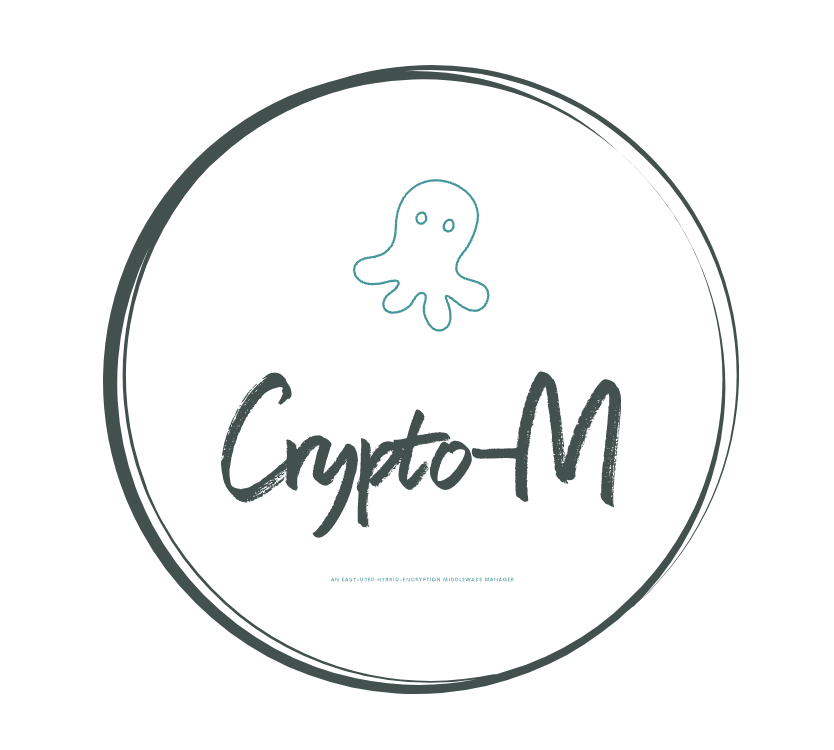
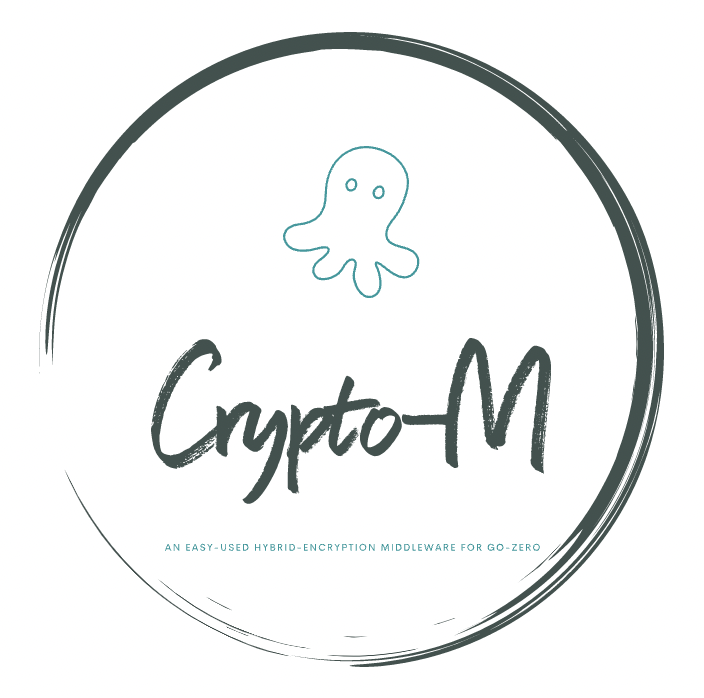
修饰了一下logo

diff --git a/README.md b/README.md
@@ -316,8 +316,8 @@ func TestSimpleDemo(t *testing.T) {
    }
 
    ```
-   这里我手搓了一套凯撒加密法策略作为演示，具体做法为对每一个字节进行一定量的偏移。
-   由于不对称加密的技术过于高端我实在手搓不能，就依然用一家独大的Rsa策略了，然后原本用作密钥的cek就由凯撒加密法的偏移量代替，反正这玩意儿的功能也和密钥没差，二者综合起来依然是个对称不对称混合的加密策略。
+   这里我手搓了一套凯撒加密法（的字节级变体）作为演示，具体做法为将每一个字节作为数字进行一定量的偏移（原版是在26个字母范围内偏移）。
+   由于不对称加密的技术过于高端我实在手搓不能，就依然沿用一家独大的Rsa策略了，然后原本用作密钥的cek就由凯撒加密法的偏移量代替，反正从功能上看也算最古早的一种密钥了，二者结合依然是个符合标准的混合加密策略。
    > *对应客户端示例 samples/client_demo/custom_demo_test.go
 
 
